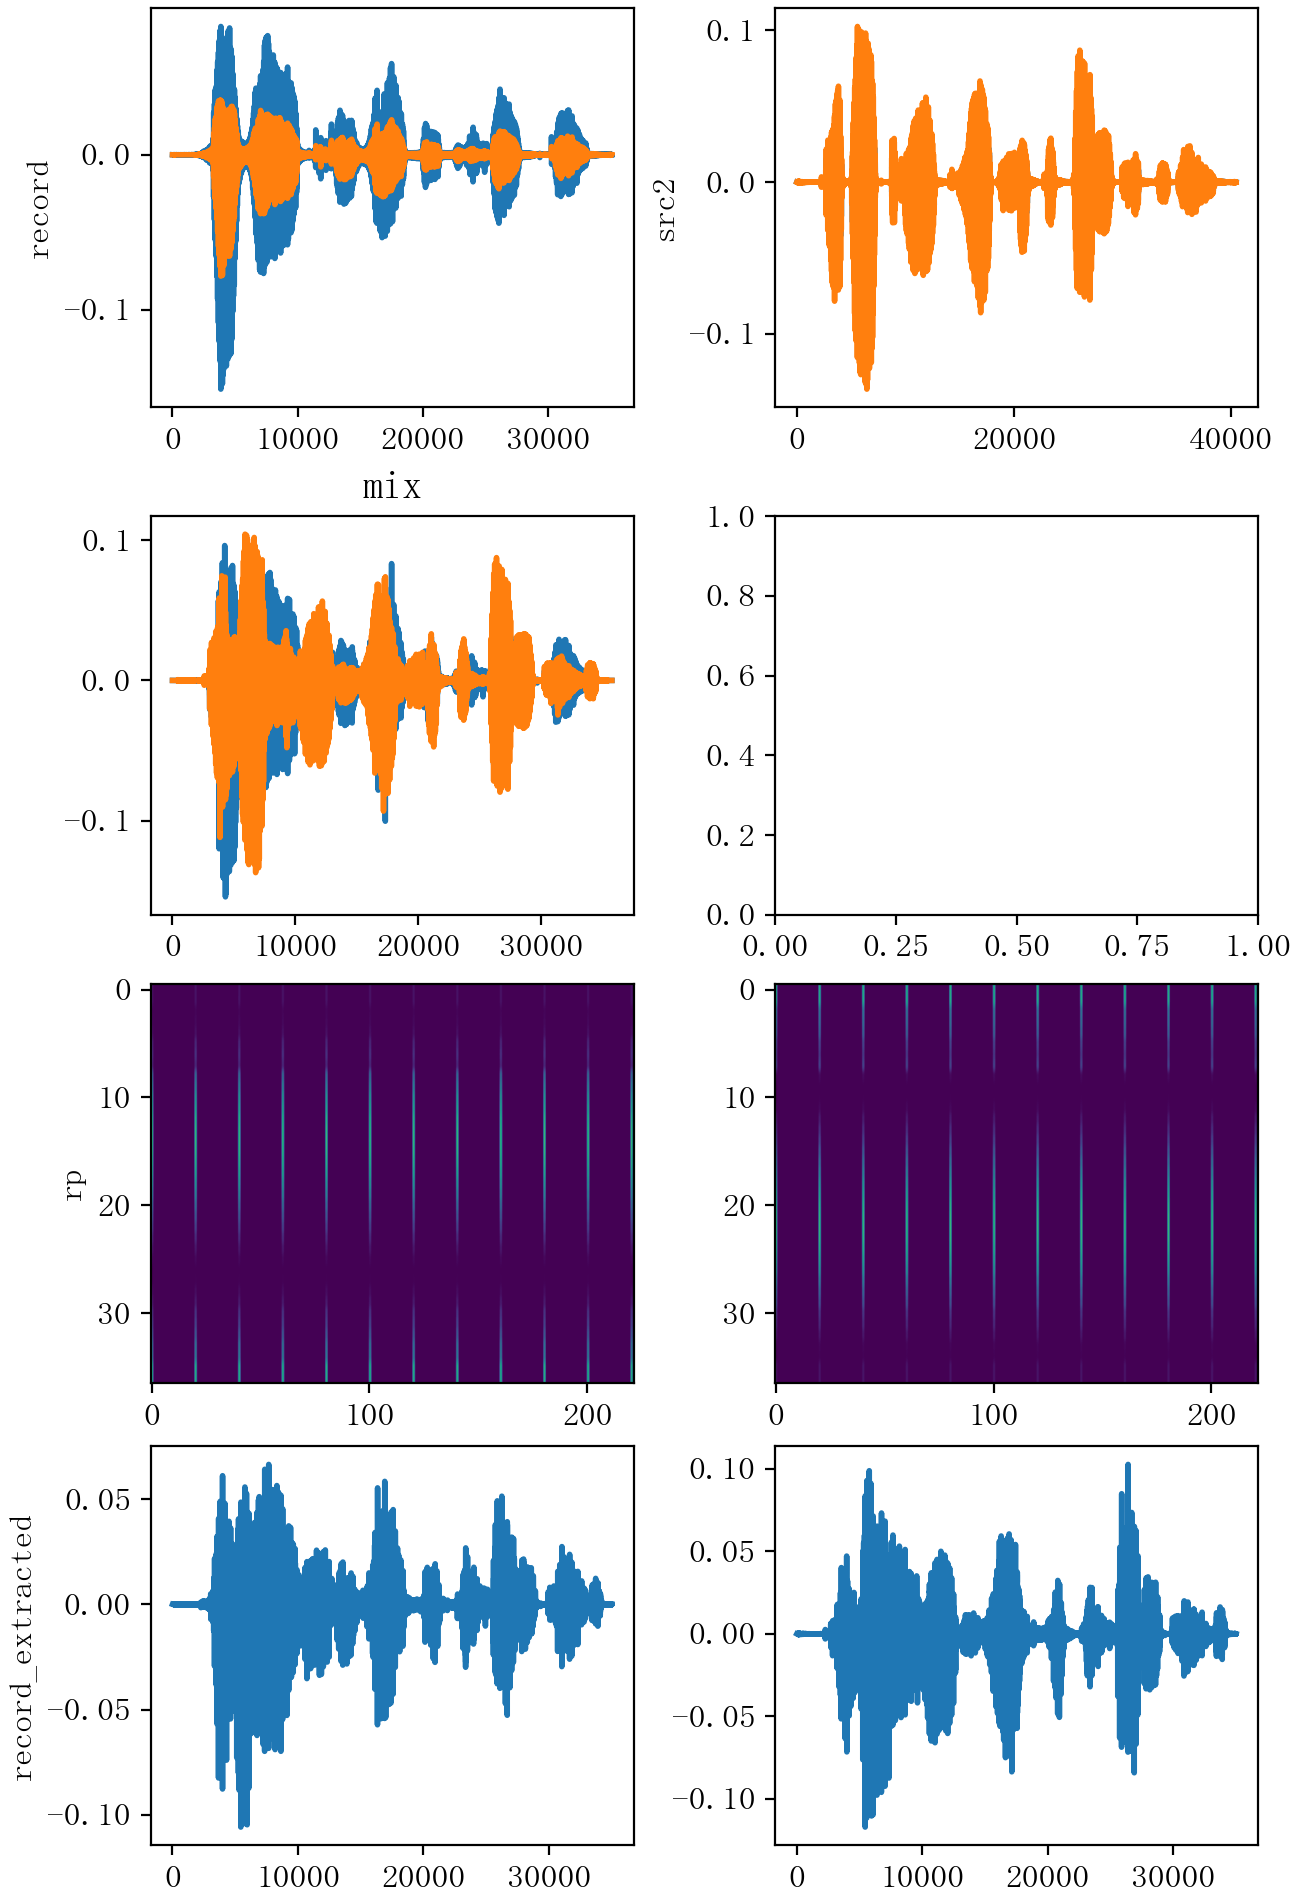
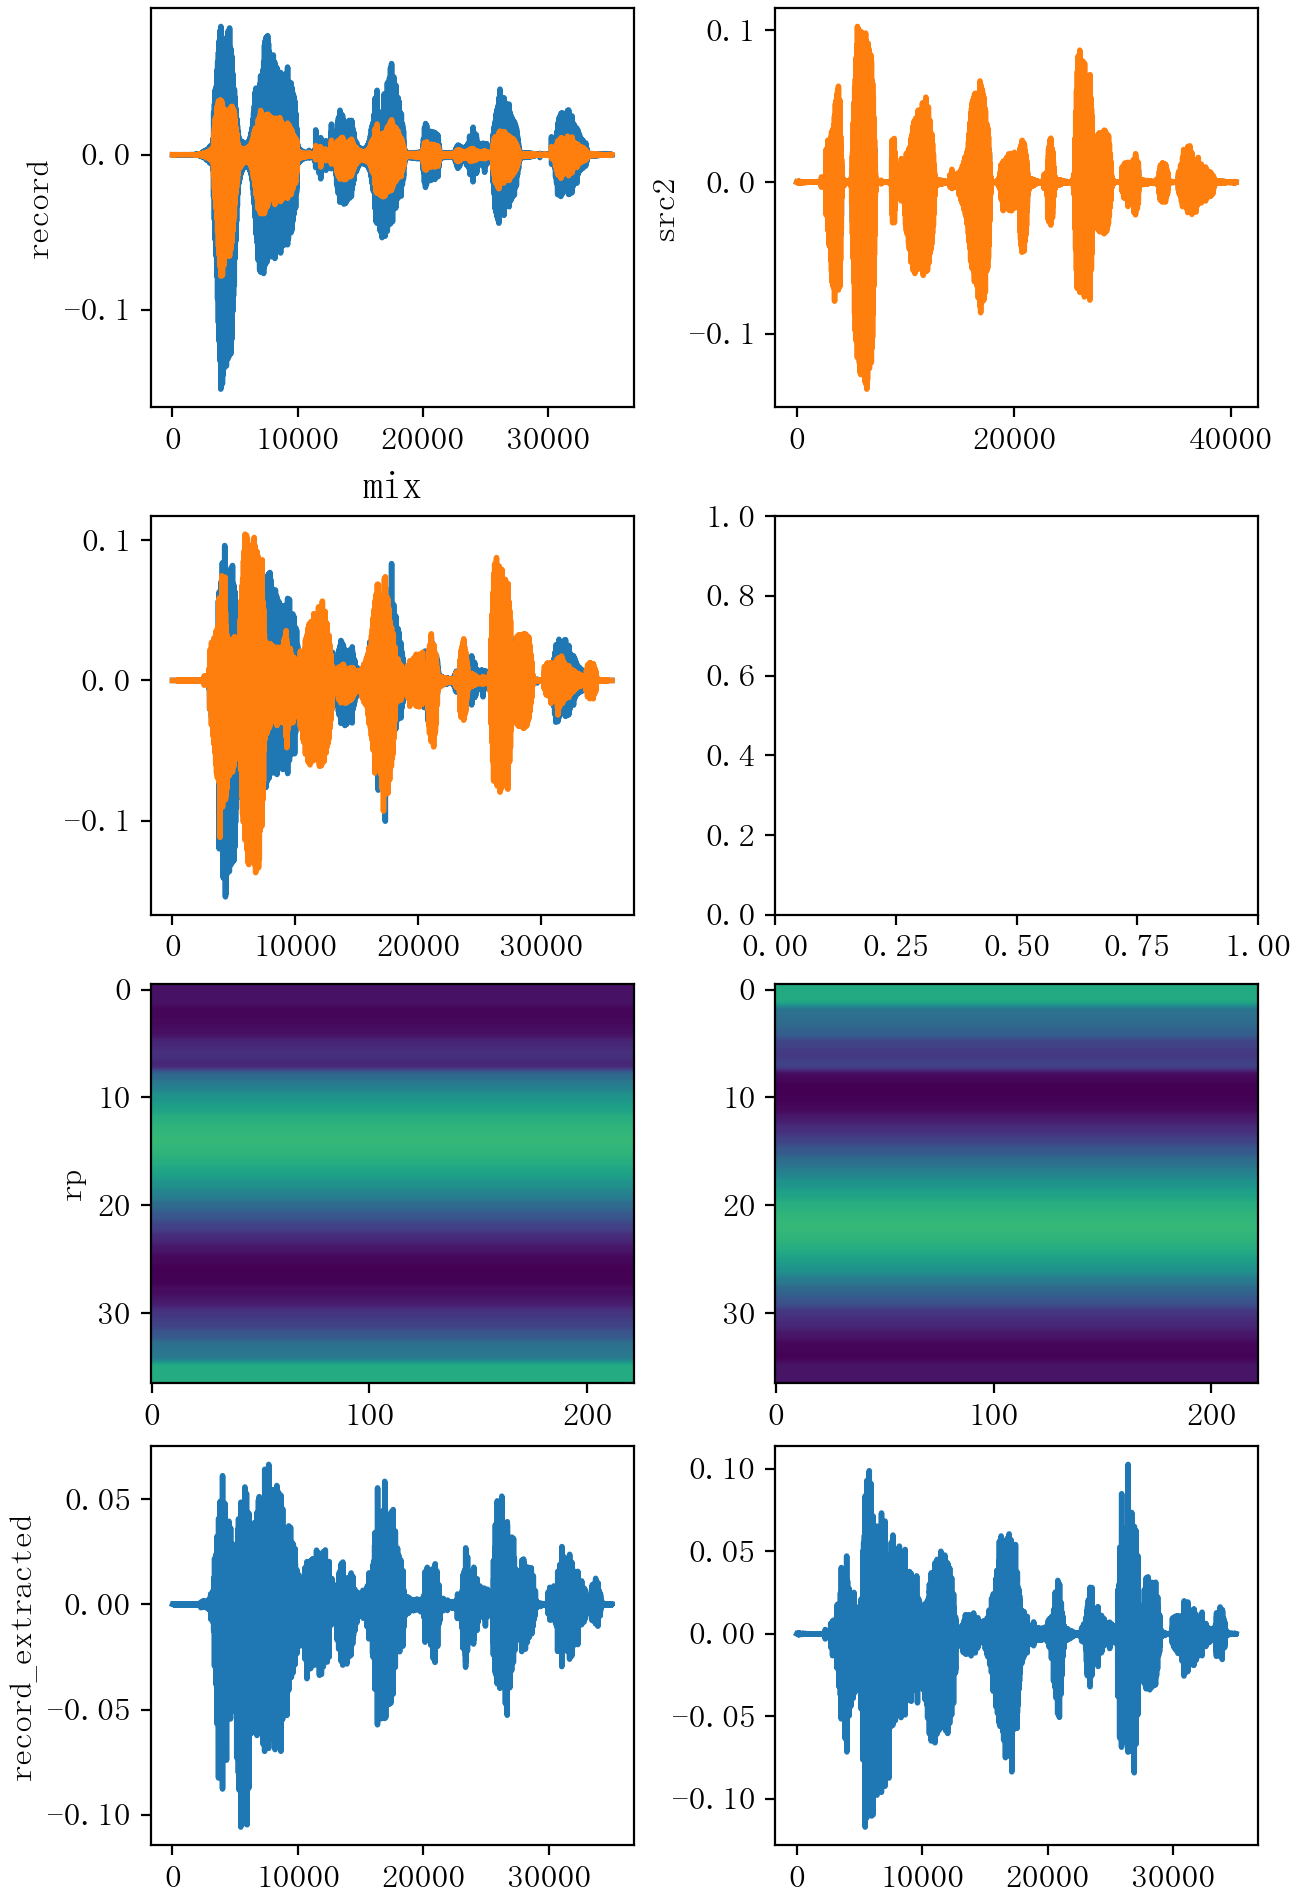
update test script

Changed region(s): [[0.5846, 0.4968, 0.9846, 0.7142], [0.0923, 0.5279, 0.4923, 0.7453]]

diff --git a/examples/mvdr_online_test_with_delay_dict.py b/examples/mvdr_online_test_with_delay_dict.py
@@ -81,23 +81,23 @@ def test2(alpha):
         mvdr_src1.run(mix[frame_slice], src1_azi)
         mvdr_src2.run(mix[frame_slice], src2_azi)
 
-        if np.mod(frame_i, 20) == 0:
+        if np.mod(frame_i, 1) == 0:
             rp_src1_all[frame_i] = \
                 mvdr_src1.plot_spatial_rp(src1_azi, init_R_bins=True)
             rp_src2_all[frame_i] = \
                 mvdr_src2.plot_spatial_rp(src2_azi, init_R_bins=True)
 
-            fig, ax = plot_tools.subplots(3, 2)
-            ax[0, 0].plot(record_1[frame_len:][frame_slice])
-            ax[0, 0].set_ylim([-amp_max, amp_max])
-            ax[0, 1].plot(record_2[frame_len:][frame_slice])
-            ax[0, 1].set_ylim([-amp_max, amp_max])
-            ax[1, 0].plot(mix[frame_slice])
-            ax[1, 0].set_ylim([-amp_max, amp_max])
-            ax[2, 0].plot(rp_src1_all[frame_i])
-            ax[2, 1].plot(rp_src2_all[frame_i])
-            fig.savefig(f'{eg_dir}/frame_{frame_i:0>4}.png')
-            plt.close(fig)
+            # fig, ax = plot_tools.subplots(3, 2)
+            # ax[0, 0].plot(record_1[frame_len:][frame_slice])
+            # ax[0, 0].set_ylim([-amp_max, amp_max])
+            # ax[0, 1].plot(record_2[frame_len:][frame_slice])
+            # ax[0, 1].set_ylim([-amp_max, amp_max])
+            # ax[1, 0].plot(mix[frame_slice])
+            # ax[1, 0].set_ylim([-amp_max, amp_max])
+            # ax[2, 0].plot(rp_src1_all[frame_i])
+            # ax[2, 1].plot(rp_src2_all[frame_i])
+            # fig.savefig(f'{eg_dir}/frame_{frame_i:0>4}.png')
+            # plt.close(fig)
 
     src1_enhanced = mvdr_src1.get_output()
     src1_enhanced = src1_enhanced[frame_len:-frame_len]
